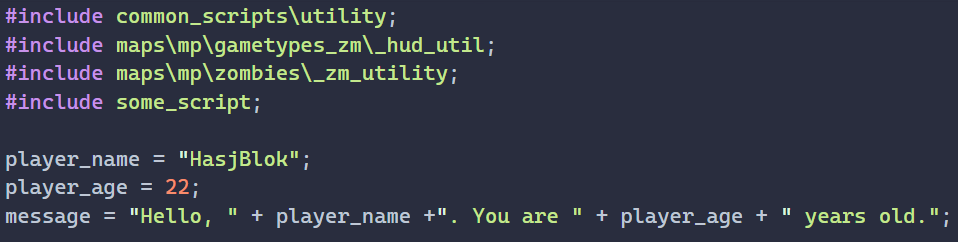
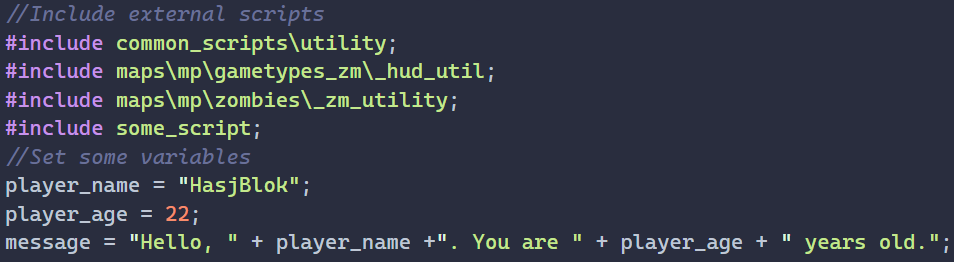
Added comments to showcase

Changed region(s): [[0.0, 0.0, 0.5168, 0.5207], [0.0, 0.5496, 1.0, 0.9835]]

diff --git a/README.md b/README.md
@@ -16,6 +16,10 @@ and correctly parse it into the following AST:
 ```json
 [
     {
+        "type": "comment",
+        "content": "Include external scripts"
+    },
+    {
         "type": "include_statement",
         "file_path": "common_scripts\\utility"
     },
@@ -30,6 +34,10 @@ and correctly parse it into the following AST:
     {
         "type": "include_statement",
         "file_path": "some_script"
+    },
+    {
+        "type": "comment",
+        "content": "Set some variables"
     },
     {
         "type": "variable_assignment",
